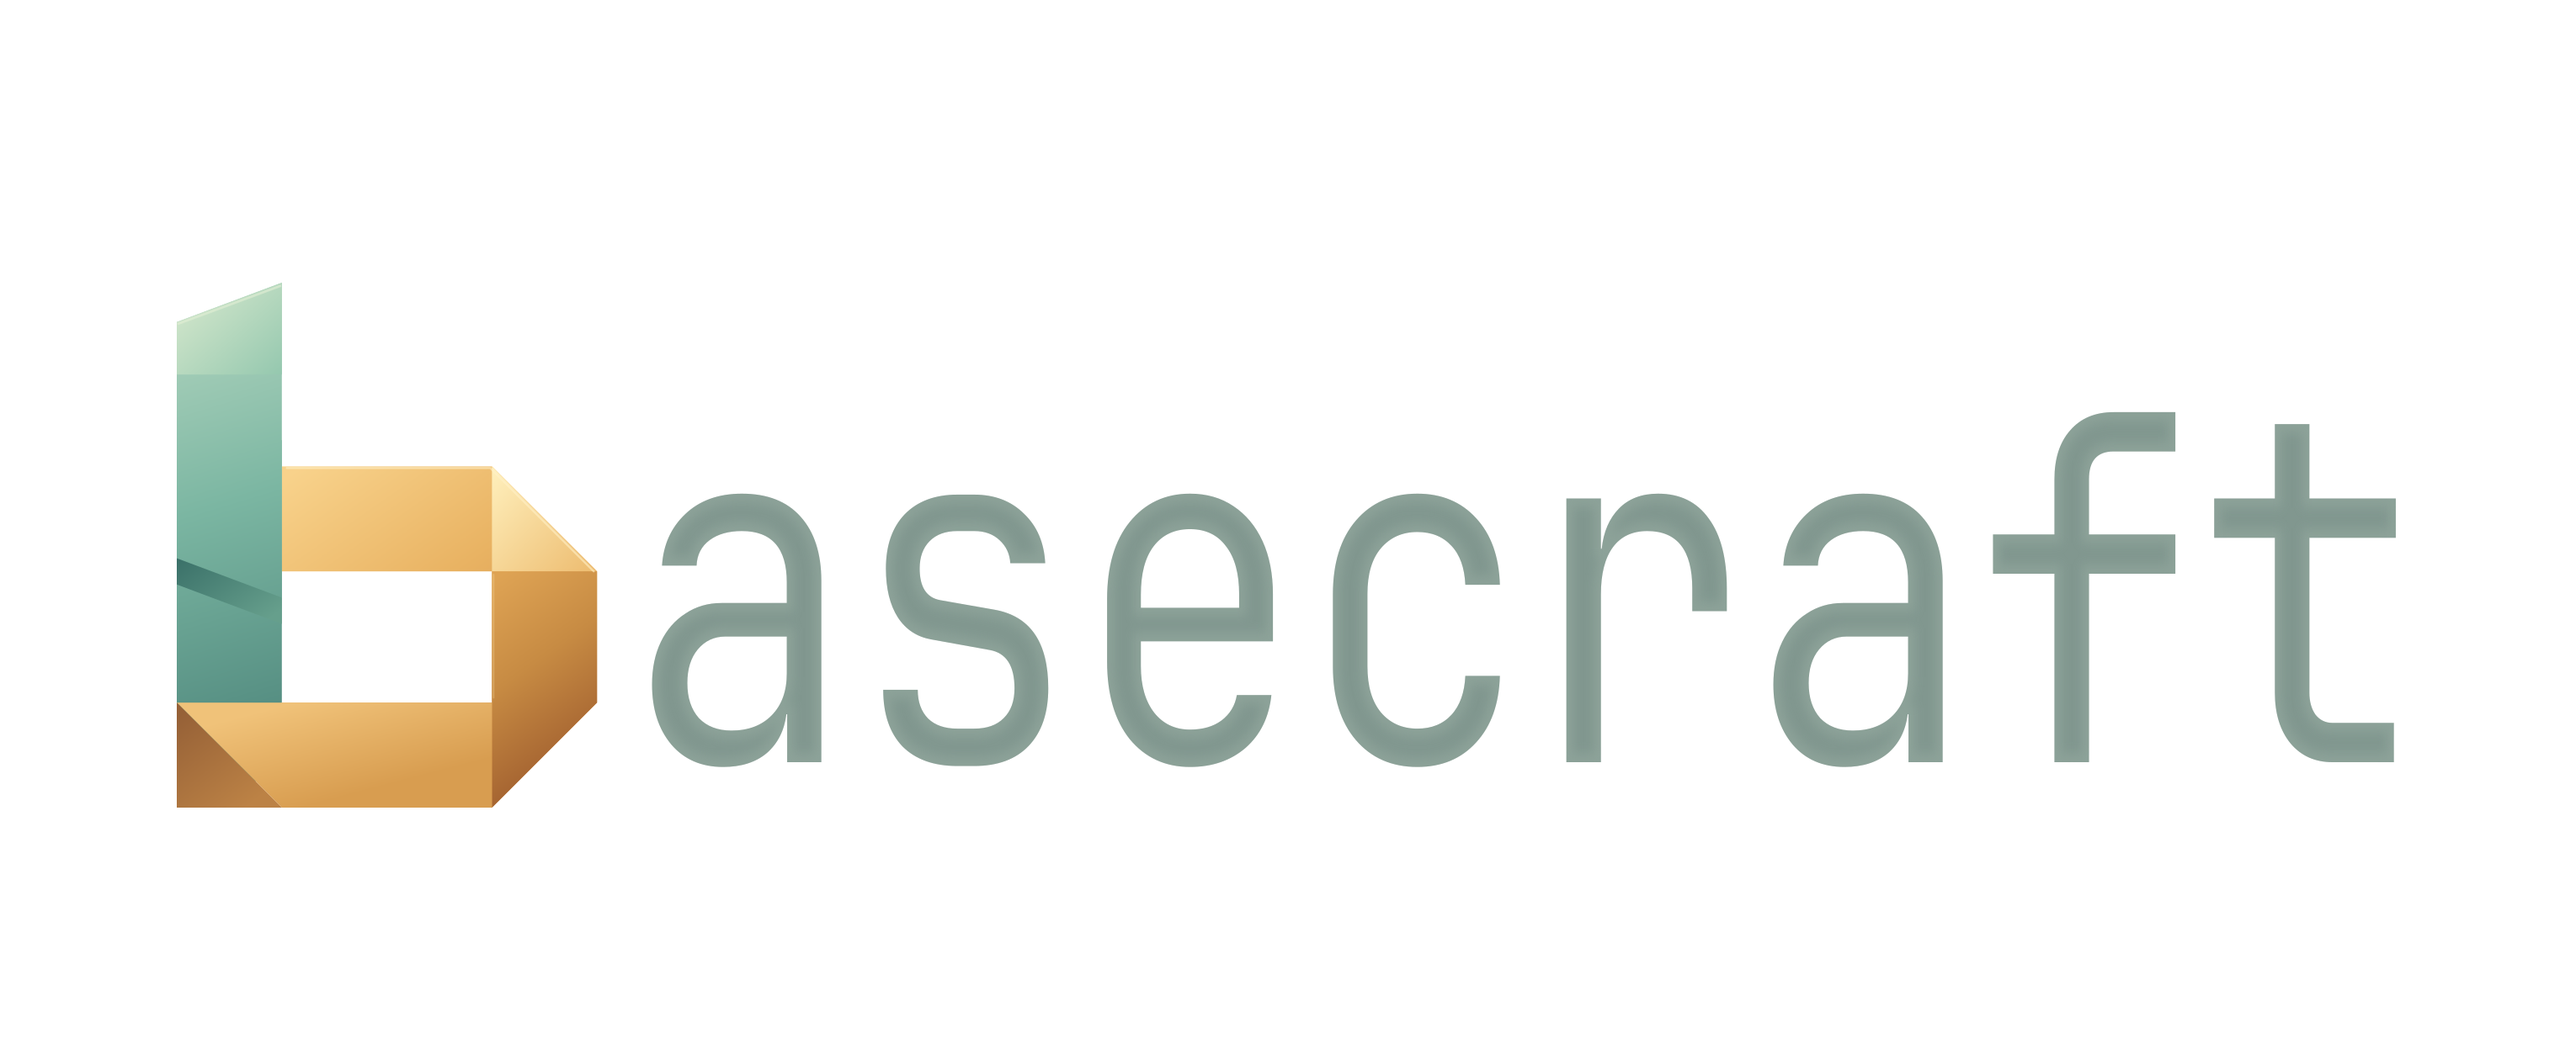
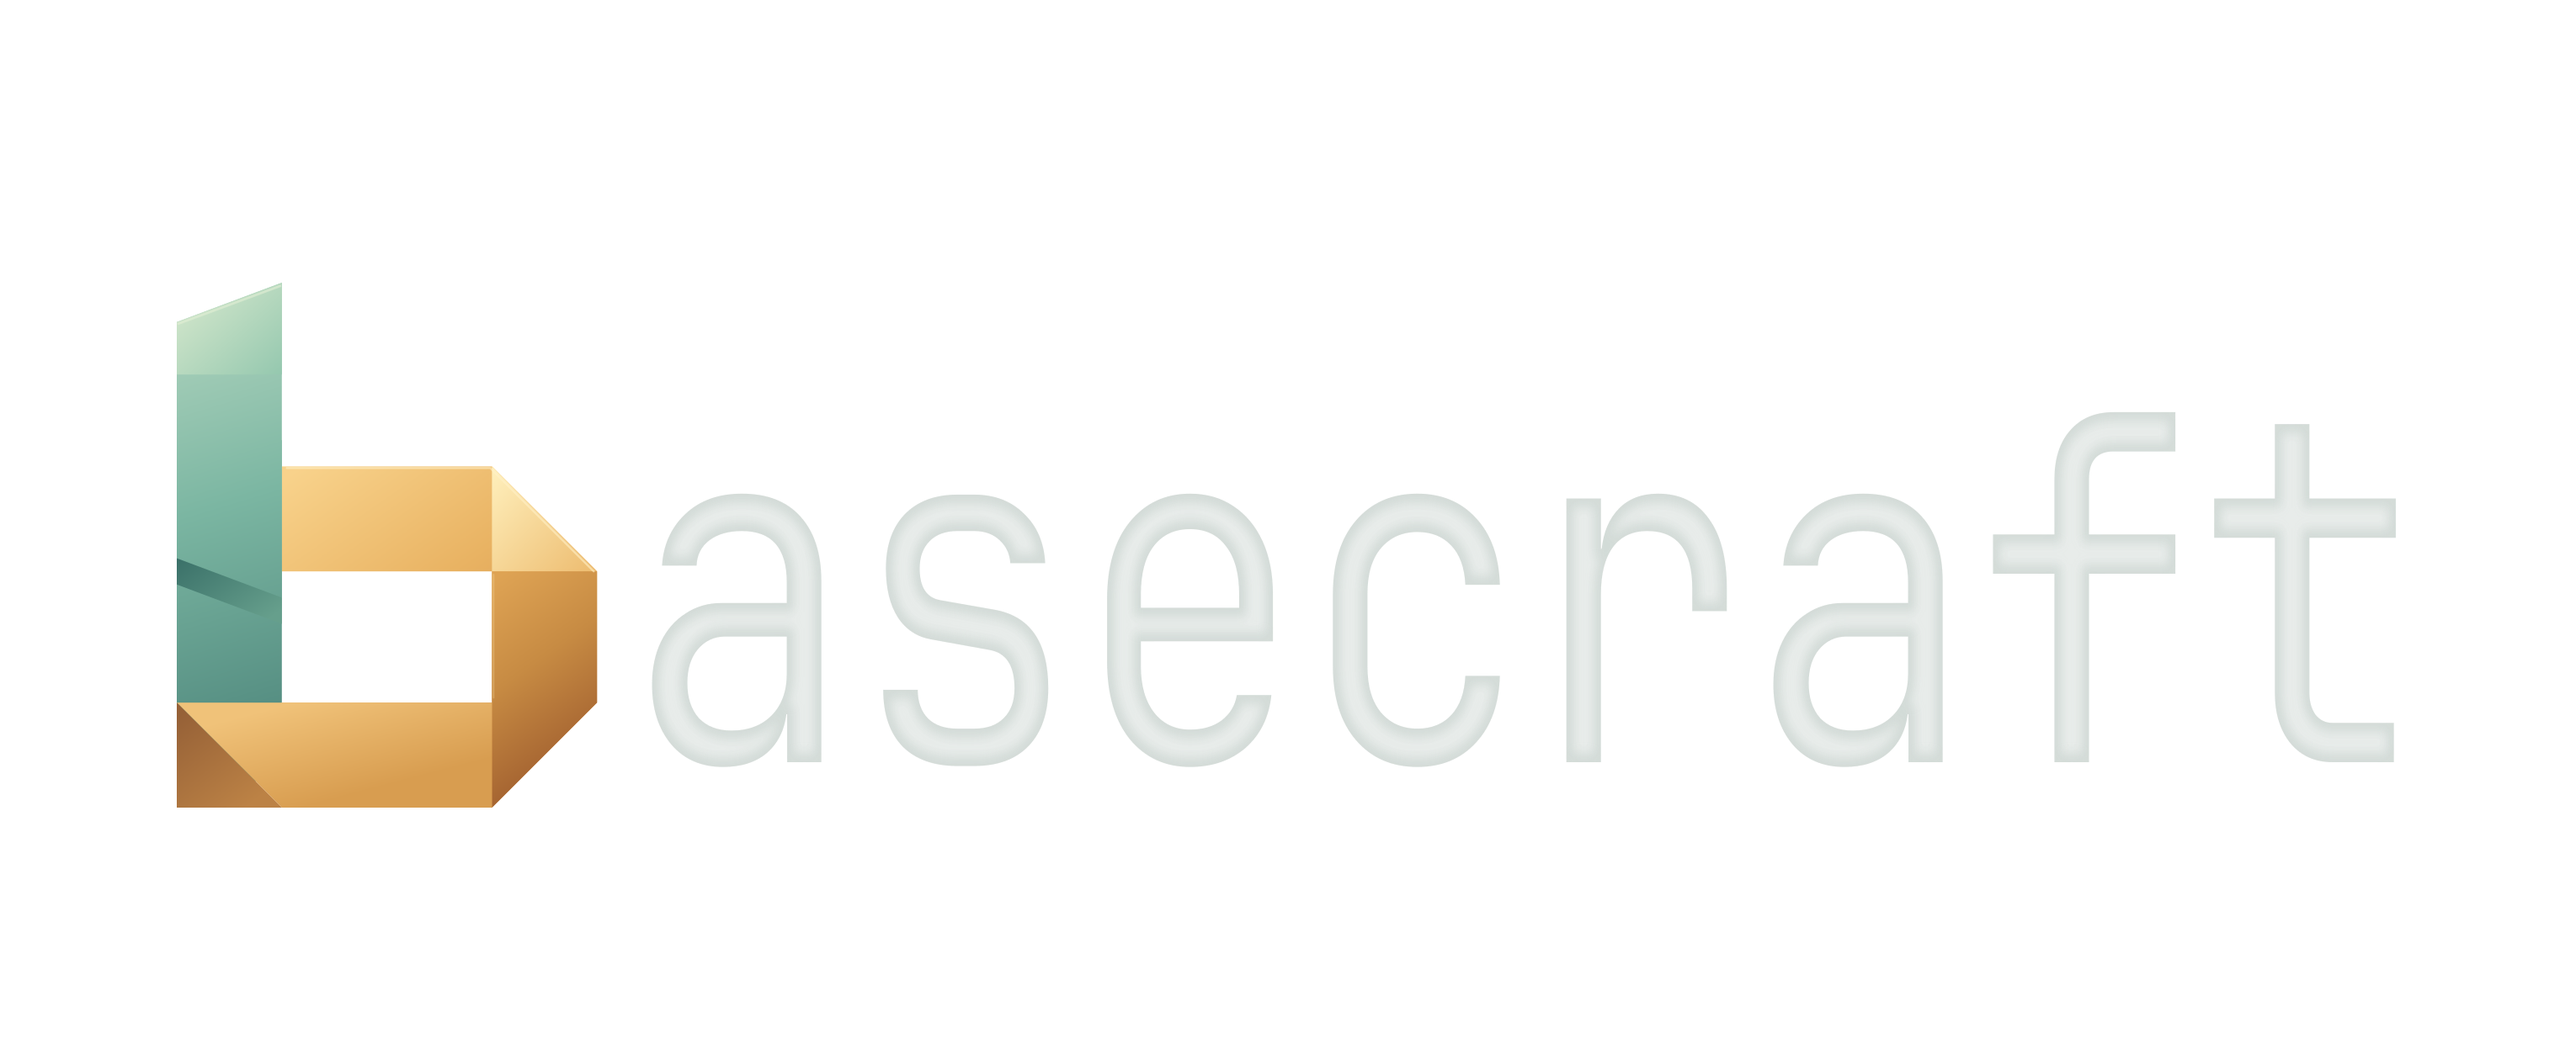
Preserve the wordmark transparency gradient

Changed region(s): [[0.2484, 0.3714, 0.9314, 0.7429]]

diff --git a/crates/basecraft-gui/branding/README.md b/crates/basecraft-gui/branding/README.md
@@ -1,10 +1,11 @@
 # Basecraft wordmark
 
-Accepted full logo: the soft-gradient lowercase wordmark, made fully opaque
-for reuse in study 20 (2026-10-26).
-The folded b is emphasised; the compressed JetBrainsMono lettering has an opaque
-face and gentle edge shading. Only the opening-window presentation applies
-70% overall opacity.
+Accepted full logo: the soft-gradient lowercase wordmark, with its internal transparency gradient retained
+for reuse in study 21 (2026-10-26).
+The folded b is emphasised; the compressed JetBrainsMono lettering retains an 18%
+interior opacity and gentle 20% edge shading. The b and subtitle have no global
+fade. Only the opening-window presentation applies an additional 70% overall
+opacity to the complete composition.
 
 `wordmark-dark.svg` is transparent artwork for dark surfaces;
 `wordmark-light.svg` is transparent artwork for light surfaces. Both are editable
